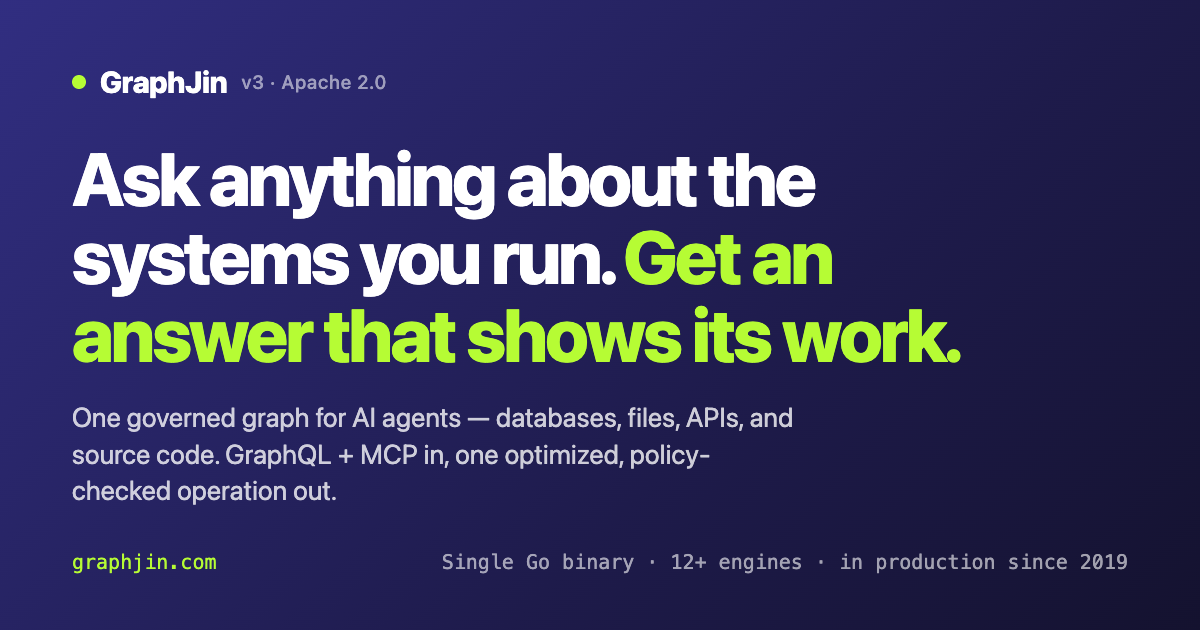
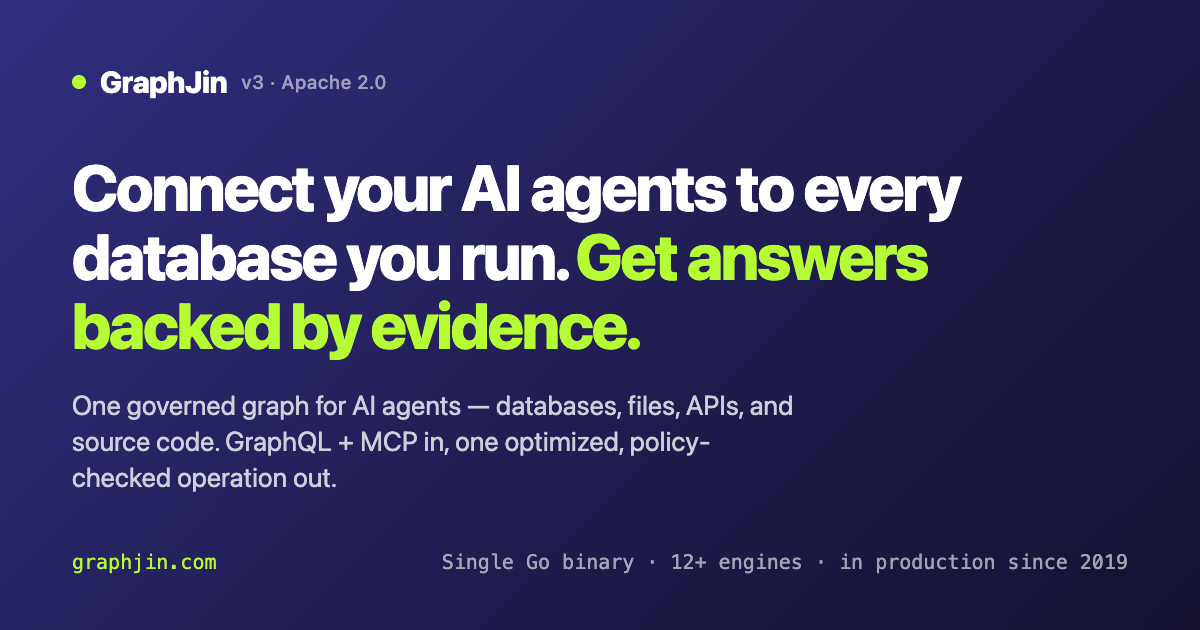
website: saas-ops homepage — rotating hero demo, new hook, docs sweep [skip-release]
- Hook: "Connect your AI agents to every database you run. Get answers
  backed by evidence." — names the audience's actual problem (agents ×
  databases); og card regenerated, checker sentinel updated
- Hero window speaks the built-in SaaS ops demo and rotates three
  seed-true questions (churn risk / SLA breaches / MRR) every 7s,
  replaying the entrance stagger; reduced-motion and hidden tabs stay
  static (first gated JS animation on the site)
- Demo card, zero-Docker CTA (#saas-ops), home-paths, quickstart note,
  and the start/install/server-agent/test-backed docs all speak SaaS ops

Changed region(s): [[0.0617, 0.2413, 0.8017, 0.573], [0.0617, 0.6333, 0.6783, 0.8143]]

diff --git a/graphjin/website/static/js/site.js b/graphjin/website/static/js/site.js
@@ -1006,3 +1006,56 @@ if (infiniteMain && firstDocArticle && infiniteMain.dataset.nextUrl) {
 
   armNextSentinel();
 }
+
+// Homepage hero: rotate the demo Q/A pairs (static markup is pair one).
+const heroRotateWindow = document.querySelector('.ai-window-hero');
+const heroRotateData = document.getElementById('hero-rotate-data');
+if (
+  heroRotateWindow &&
+  heroRotateData &&
+  window.matchMedia('(prefers-reduced-motion: no-preference)').matches
+) {
+  let heroPairs = [];
+  try {
+    heroPairs = JSON.parse(heroRotateData.textContent || '[]');
+  } catch {
+    heroPairs = [];
+  }
+  const heroUser = heroRotateWindow.querySelector('.chat-user');
+  const heroTools = heroRotateWindow.querySelectorAll('.tool-call');
+  const heroDone = heroRotateWindow.querySelector('.done-line .done-text');
+  const heroAnswer = heroRotateWindow.querySelector('.assistant-copy');
+  if (
+    Array.isArray(heroPairs) &&
+    heroPairs.length > 1 &&
+    heroUser &&
+    heroDone &&
+    heroAnswer &&
+    heroTools.length === 2
+  ) {
+    const heroAnimated = [
+      heroUser,
+      ...heroTools,
+      heroDone.parentElement,
+      heroAnswer,
+    ];
+    let heroIndex = 0;
+    window.setInterval(() => {
+      if (document.hidden) return;
+      heroIndex = (heroIndex + 1) % heroPairs.length;
+      const pair = heroPairs[heroIndex];
+      heroUser.textContent = pair.user;
+      pair.tools.forEach((tool, i) => {
+        heroTools[i].querySelector('.tool-call-header span:last-child').textContent = tool.name;
+        heroTools[i].querySelector('code').textContent = tool.line;
+      });
+      heroDone.textContent = ' ' + pair.done;
+      heroAnswer.textContent = pair.answer;
+      for (const el of heroAnimated) {
+        el.style.animation = 'none';
+        void el.offsetWidth; // commit the reset so the stagger replays
+        el.style.animation = '';
+      }
+    }, 7000);
+  }
+}

diff --git a/graphjin/website/scripts/og-card.html b/graphjin/website/scripts/og-card.html
@@ -39,9 +39,9 @@
     letter-spacing: 0.04em;
   }
   h1 {
-    max-width: 20ch;
-    font-size: 74px;
-    line-height: 1.05;
+    max-width: 30ch;
+    font-size: 64px;
+    line-height: 1.08;
     letter-spacing: -0.035em;
     font-weight: 800;
   }
@@ -67,7 +67,7 @@
 <body>
   <div class="brand"><span class="dot"></span>GraphJin <small>v3 · Apache 2.0</small></div>
   <div>
-    <h1>Ask anything about the systems you run. <span class="accent">Get an answer that shows its work.</span></h1>
+    <h1>Connect your AI agents to every database you run. <span class="accent">Get answers backed by evidence.</span></h1>
     <p class="sub">One governed graph for AI agents — databases, files, APIs, and source code. GraphQL + MCP in, one optimized, policy-checked operation out.</p>
   </div>
   <div class="foot"><span class="site">graphjin.com</span><span>Single Go binary · 12+ engines · in production since 2019</span></div>

diff --git a/graphjin/website/content/_index.md b/graphjin/website/content/_index.md
@@ -3,7 +3,7 @@ title: "GraphJin"
 description: "GraphJin gives AI agents one governed graph across your databases, files, APIs, and source code — GraphQL and MCP in, one optimized, policy-checked operation out."
 ---
 
-<section class="home-hero"><div class="home-hero-copy"><p class="home-section-label">v3 · Apache 2.0</p><h1>Ask anything about the systems you run. <span class="h1-accent">Get an answer that shows its work.</span></h1><p class="home-lede">Most teams hand-wire a brittle tool for every question an agent might ask. GraphJin auto-learns your databases, files, APIs, and source code into one governed graph — and ships the agent that works it.</p><p class="home-sublede">Under the hood: a compiler, not a framework. Agents ask in a small graph query language models get right on the first try — each request compiles into one optimized, policy-checked operation. Bring Claude or Codex over MCP, or use the <a href="#agent">built-in agent</a>.</p><div class="home-actions"><a class="button-primary" href="#quickstart">Run the 2-minute demo</a><a class="button-secondary" href="#ai-queries">Watch an agent answer</a><div class="hero-cmd" data-code-block><pre><code>graphjin serve --demo</code></pre><button class="copy-code-button" type="button" data-copy-code>Copy</button></div></div><p class="home-trust">Single Go binary · 12+ engines · Apache 2.0 · in production since 2019</p></div><div class="home-hero-demo"><div class="ai-window ai-window-hero"><div class="window-chrome"><span></span><span></span><span></span><i aria-hidden="true">✣</i><strong>GraphJin Agent · localhost:8083/agent</strong></div><div class="ai-conversation"><div class="chat-user">Who should get the next open cardiology slot?</div><div class="assistant-row"><div class="assistant-avatar" aria-hidden="true">✣</div><div class="chat-assistant"><div class="tool-call"><div class="tool-call-header"><span class="tool-caret" aria-hidden="true">⌄</span><span>query_catalog</span></div><code>discover -> providers · appointments · waitlist</code></div><div class="tool-call"><div class="tool-call-header"><span class="tool-caret" aria-hidden="true">⌄</span><span>execute_graphql</span></div><code>1 optimized query · waitlist by priority</code></div><p class="done-line"><span aria-hidden="true">✓</span> Evidence checked · 2 reads · 1 execution</p><p class="assistant-copy">Rosa Alvarez — high priority, waiting 4 days for Dr. Alice Chen's next opening.</p></div></div></div></div></div><div class="home-hero-diffs" aria-label="What makes GraphJin different"><article><h3><a href="#proof">Answers it can't fake</a></h3><p>A ledger in Go records what actually ran. Unbacked claims flip <code>answered</code> to <code>blocked</code> — the fake answer never leaves the server.</p></article><article><h3><a href="#how">One optimized operation</a></h3><p>No glue code, no N+1. Policy is compiled into the query itself, not bolted on around it.</p></article><article><h3><a href="#security-model">Your permissions, never your keys</a></h3><p>The agent runs as the caller. RBAC and row-level security apply to every request it makes.</p></article></div></section>
+<section class="home-hero"><div class="home-hero-copy"><p class="home-section-label">v3 · Apache 2.0</p><h1>Connect your AI agents to every database you run. <span class="h1-accent">Get answers backed by evidence.</span></h1><p class="home-lede">Most teams hand-wire a brittle tool for every question an agent might ask. GraphJin auto-learns your databases, files, APIs, and source code into one governed graph — and ships the agent that works it.</p><p class="home-sublede">Under the hood: a compiler, not a framework. Agents ask in a small graph query language models get right on the first try — each request compiles into one optimized, policy-checked operation. Bring Claude or Codex over MCP, or use the <a href="#agent">built-in agent</a>.</p><div class="home-actions"><a class="button-primary" href="#quickstart">Run the 2-minute demo</a><a class="button-secondary" href="#ai-queries">Watch an agent answer</a><div class="hero-cmd" data-code-block><pre><code>graphjin serve --demo</code></pre><button class="copy-code-button" type="button" data-copy-code>Copy</button></div></div><p class="home-trust">Single Go binary · 12+ engines · Apache 2.0 · in production since 2019</p></div><div class="home-hero-demo"><div class="ai-window ai-window-hero"><div class="window-chrome"><span></span><span></span><span></span><i aria-hidden="true">✣</i><strong>GraphJin Agent · localhost:8083/agent</strong></div><div class="ai-conversation"><div class="chat-user">Which account is most at risk of churning?</div><div class="assistant-row"><div class="assistant-avatar" aria-hidden="true">✣</div><div class="chat-assistant"><div class="tool-call"><div class="tool-call-header"><span class="tool-caret" aria-hidden="true">⌄</span><span>query_catalog</span></div><code>discover -> accounts · invoices · usage_events</code></div><div class="tool-call"><div class="tool-call-header"><span class="tool-caret" aria-hidden="true">⌄</span><span>execute_graphql</span></div><code>1 optimized query · churn signals by account</code></div><p class="done-line"><span aria-hidden="true">✓</span><span class="done-text"> Evidence checked · 2 reads · 1 execution</span></p><p class="assistant-copy">Meridian Robotics — renewal in 9 days, 2 failed payments, usage down sharply.</p></div></div></div></div><script type="application/json" id="hero-rotate-data">[{"user":"Which account is most at risk of churning?","tools":[{"name":"query_catalog","line":"discover -> accounts · invoices · usage_events"},{"name":"execute_graphql","line":"1 optimized query · churn signals by account"}],"done":"Evidence checked · 2 reads · 1 execution","answer":"Meridian Robotics — renewal in 9 days, 2 failed payments, usage down sharply."},{"user":"Any support tickets about to breach SLA?","tools":[{"name":"query_catalog","line":"discover -> support_tickets · accounts · users"},{"name":"execute_graphql","line":"1 optimized query · open tickets by sla_due_at"}],"done":"Evidence checked · 2 reads · 1 execution","answer":"Meridian Robotics' urgent ticket is past SLA — one more is due by 17:00 today."},{"user":"Where is our MRR concentrated?","tools":[{"name":"query_catalog","line":"discover -> subscriptions · accounts · invoices"},{"name":"execute_graphql","line":"1 optimized query · MRR rollup by plan"}],"done":"Evidence checked · 2 reads · 1 execution","answer":"$19,800 MRR, 81% enterprise — two past-due accounts put $5,200 at risk."}]</script></div><div class="home-hero-diffs" aria-label="What makes GraphJin different"><article><h3><a href="#proof">Answers it can't fake</a></h3><p>A ledger in Go records what actually ran. Unbacked claims flip <code>answered</code> to <code>blocked</code> — the fake answer never leaves the server.</p></article><article><h3><a href="#how">One optimized operation</a></h3><p>No glue code, no N+1. Policy is compiled into the query itself, not bolted on around it.</p></article><article><h3><a href="#security-model">Your permissions, never your keys</a></h3><p>The agent runs as the caller. RBAC and row-level security apply to every request it makes.</p></article></div></section>
 
 <section id="ai-queries" class="home-section ai-query-section"><div class="home-section-heading centered"><p class="home-section-label">See it work</p><h2>Ask in plain English. Get real data back.</h2><p>The hero window is the short version — here is the full loop, tool call by tool call. Claude Desktop, Codex, or any MCP client talks to GraphJin: the agent discovers the shape, validates its query, and GraphJin compiles it into one optimized database query — then answers with rows it can reason over.</p></div><div class="ai-stage"><div class="ai-window"><div class="window-chrome"><span></span><span></span><span></span><i aria-hidden="true">✣</i><strong>Claude Desktop</strong></div><div class="ai-conversation"><div class="chat-user">who's the top customer?</div><div class="assistant-row"><div class="assistant-avatar" aria-hidden="true">✣</div><div class="chat-assistant"><div class="tool-call"><div class="tool-call-header"><span class="tool-caret" aria-hidden="true">⌄</span><span>query_catalog</span></div><code>discover -> customers · purchases · products  (2 relationships)</code></div><div class="tool-call"><div class="tool-call-header"><span class="tool-caret" aria-hidden="true">⌄</span><span>validate_where_clause</span></div><code>validate -> filters ok on customers, purchases · order_by total_spent</code></div><div class="tool-call"><div class="tool-call-header"><span class="tool-caret" aria-hidden="true">⌄</span><span>execute_graphql</span></div><code>{ customers { id full_name email purchases { quantity product { price } } } }</code></div><details class="gen-sql"><summary><span aria-hidden="true">SQL</span> one optimized query, no N+1, no resolvers</summary>{{< hl sql >}}SELECT json_agg(__sj.json) AS customers
 FROM customers AS c
@@ -80,7 +80,7 @@ curl -sS localhost:8080/api/v1/agent \
 {{< /code-card >}}
 <p class="code-note"><strong>Captured live.</strong> The actual response from this run — trimmed, not retouched. The refusal is machine-actionable: it names the exact unblock step, so a calling agent corrects course and retries instead of guessing.</p></div></div><div class="badge-row"><span>Ledger written by Go, not the model</span><span>Model history is untrusted</span><span>Deterministic post-run check</span><span>Runs as the caller — RLS still applies</span></div><p class="home-section-note"><strong>The smoke suite jailbreak-tests this in every demo vertical.</strong> A model told to skip discovery and mutate anyway gets <code>status: "blocked"</code> and a machine-actionable refusal with unblock steps — asserted end-to-end on every smoke run. Watch the loop live: every demo streams each tool call — green dot or red — at <code>localhost:8080/agent</code>.</p><div class="home-actions"><a class="button-primary" href="/agentic/server-agent/">How the guards work</a><a class="button-secondary" href="#demos">Try it on a demo</a></div></section>
 
-<section id="demos" class="home-section"><div class="home-section-heading"><p class="home-section-label">Demo verticals</p><h2>Five demos. Real domains. One command each.</h2><p>Not toy schemas — each demo boots a full vertical: schema, seeded operational data, saved queries, workflows, and the agent wired in. Seeds anchor to today, so the data never goes stale. Delete the <code>demo/</code> folder to reset. Pick a domain and start interrogating it.</p></div><div class="badge-row"><span>5 verticals</span><span>6 database engines</span><span>CodeSQL + files + OpenAPI sources</span><span>12 workflows · 12 saved queries</span></div><div class="demo-grid"><article class="home-card demo-card"><div class="demo-meta"><span class="demo-port">:8080</span><span class="demo-stack">Postgres · BigQuery-emu · CodeSQL</span></div><h3>Coffee roastery</h3><p>Roast schedules, cupping scores, sensor telemetry, production orders — the flagship agentic demo.</p><p class="demo-question">"Which roast batch should be held for quality — and why?"</p><code class="demo-cmd">graphjin serve --demo --path examples/coffee-roastery</code></article><article class="home-card demo-card"><div class="demo-meta"><span class="demo-port">:8083</span><span class="demo-stack">SQLite — zero Docker</span></div><h3>Clinic scheduler</h3><p>Appointments, waitlists, no-shows — built into the binary; boots in seconds, no clone, no containers.</p><p class="demo-question">"Who should get the next open cardiology slot?"</p><code class="demo-cmd">graphjin serve --demo</code></article><article class="home-card demo-card"><div class="demo-meta"><span class="demo-port">:8081</span><span class="demo-stack">MySQL · BigQuery-emu · JWT roles</span></div><h3>Corrugated plant</h3><p>Work orders, corrugator runs, downtime, quality holds — behind real role-gated auth.</p><p class="demo-question">"Which work orders should the corrugator run first?"</p><code class="demo-cmd">graphjin serve --demo --path examples/corrugated-plant</code></article><article class="home-card demo-card"><div class="demo-meta"><span class="demo-port">:8082</span><span class="demo-stack">8 sources — Mongo · files · OpenAPI</span></div><h3>PCB fab</h3><p>Fab orders, yield analytics, test measurements, Gerber files, a live supplier API — one graph.</p><p class="demo-question">"Which fab order should we release next — and what's the evidence?"</p><code class="demo-cmd">graphjin serve --demo --path examples/pcb-fab</code></article></div><p class="demo-classic">Just want the classic GraphQL starter? <strong>webshop</strong> — single Postgres, RBAC, a Stripe-style remote join, recursive comments. <code>graphjin serve --demo --path examples/webshop</code></p><div class="home-actions"><a class="button-primary" href="/start/demos/">Explore all five demos</a><a class="button-secondary" href="/start/demos/#clinic-scheduler">Zero Docker? Start with the clinic</a></div></section>
+<section id="demos" class="home-section"><div class="home-section-heading"><p class="home-section-label">Demo verticals</p><h2>Five demos. Real domains. One command each.</h2><p>Not toy schemas — each demo boots a full vertical: schema, seeded operational data, saved queries, workflows, and the agent wired in. Seeds anchor to today, so the data never goes stale. Delete the <code>demo/</code> folder to reset. Pick a domain and start interrogating it.</p></div><div class="badge-row"><span>5 verticals</span><span>6 database engines</span><span>CodeSQL + files + OpenAPI sources</span><span>12 workflows · 12 saved queries</span></div><div class="demo-grid"><article class="home-card demo-card"><div class="demo-meta"><span class="demo-port">:8080</span><span class="demo-stack">Postgres · BigQuery-emu · CodeSQL</span></div><h3>Coffee roastery</h3><p>Roast schedules, cupping scores, sensor telemetry, production orders — the flagship agentic demo.</p><p class="demo-question">"Which roast batch should be held for quality — and why?"</p><code class="demo-cmd">graphjin serve --demo --path examples/coffee-roastery</code></article><article class="home-card demo-card"><div class="demo-meta"><span class="demo-port">:8083</span><span class="demo-stack">SQLite — zero Docker</span></div><h3>SaaS ops</h3><p>Accounts, subscriptions, invoices, support tickets — built into the binary; boots in seconds, no clone, no containers.</p><p class="demo-question">"Which account is most at risk of churning?"</p><code class="demo-cmd">graphjin serve --demo</code></article><article class="home-card demo-card"><div class="demo-meta"><span class="demo-port">:8081</span><span class="demo-stack">MySQL · BigQuery-emu · JWT roles</span></div><h3>Corrugated plant</h3><p>Work orders, corrugator runs, downtime, quality holds — behind real role-gated auth.</p><p class="demo-question">"Which work orders should the corrugator run first?"</p><code class="demo-cmd">graphjin serve --demo --path examples/corrugated-plant</code></article><article class="home-card demo-card"><div class="demo-meta"><span class="demo-port">:8082</span><span class="demo-stack">8 sources — Mongo · files · OpenAPI</span></div><h3>PCB fab</h3><p>Fab orders, yield analytics, test measurements, Gerber files, a live supplier API — one graph.</p><p class="demo-question">"Which fab order should we release next — and what's the evidence?"</p><code class="demo-cmd">graphjin serve --demo --path examples/pcb-fab</code></article></div><p class="demo-classic">Just want the classic GraphQL starter? <strong>webshop</strong> — single Postgres, RBAC, a Stripe-style remote join, recursive comments. <code>graphjin serve --demo --path examples/webshop</code></p><div class="home-actions"><a class="button-primary" href="/start/demos/">Explore all five demos</a><a class="button-secondary" href="/start/demos/#saas-ops">Zero Docker? Start with SaaS ops</a></div></section>
 
 <section id="databases" class="home-section database-section"><div class="database-copy"><p class="home-section-label">Databases</p><h2>Works with all your databases.<br>And more.</h2><p>Point GraphJin at <strong>as many systems as you need</strong> — Postgres for users, MySQL for orders, Snowflake, Redshift, and BigQuery for analytics, Cassandra or Keyspaces for CQL workloads, MongoDB for events, HTTP APIs for remote services, object storage for files, and CodeSQL for source trees — and query them through a single GraphQL endpoint. Joins, remote joins, subscriptions, search, and mutations compose <strong>across systems in one request</strong>, so an AI assistant can reason across the data, APIs, files, and code without learning every backend.</p></div>
 
@@ -149,6 +149,6 @@ claude mcp add --transport http graphjin https://graphjin.example.com/api/v1/mcp
 
 <section id="capabilities" class="home-section"><div class="home-section-heading"><p class="home-section-label">In the box</p><h2>A full backend, not just an agent gateway.</h2><p>The same binary and config that govern the AI surface also run your realtime, files, remote APIs, auth, and federation — no extra services to operate.</p></div><div class="stats-grid"><article><strong>1</strong><span>Auditable config for agent access across the AI surface.</span></article><article><strong>12+</strong><span>Database and warehouse engines through one GraphQL surface.</span></article><article><strong>0</strong><span>Lines of resolver code. The compiler does the work.</span></article></div><div class="home-card-grid feature-grid-large"><article class="home-card"><div class="home-card-icon">FS</div><h3>Files as tables</h3><p>Uploads stream to local disk, S3, R2, or GCS; each bucket is a queryable table you can join with the rest of your schema.</p></article><article class="home-card"><div class="home-card-icon">API</div><h3>Remote APIs</h3><p>Drop in an OpenAPI 3 spec and its operations become joinable, RBAC-aware fields with per-spec auth caching.</p></article><article class="home-card"><div class="home-card-icon">RT</div><h3>Realtime</h3><p>Subscribe with the same GraphQL; cursor-based SSE and WebSocket streams resume after a drop, with polls batched into one statement.</p></article><article class="home-card"><div class="home-card-icon">JWT</div><h3>Authentication</h3><p>JWT and OIDC from Auth0, Firebase, Okta, or any JWKS — one auth pipeline across HTTP, WebSocket, SSE, and MCP.</p></article><article class="home-card"><div class="home-card-icon">WF</div><h3>Workflows</h3><p>Discover approved workflows and run them through GraphQL, REST, MCP, or the CLI.</p></article><article class="home-card"><div class="home-card-icon">RDS</div><h3>Caching</h3><p>Response caching on Redis with an in-memory fallback and stale-while-revalidate.</p></article><article class="home-card"><div class="home-card-icon">CLI</div><h3>One binary CLI</h3><p>Dev server, database toolchain, device-code login, and MCP wiring. What runs in CI matches production.</p></article><article class="home-card"><div class="home-card-icon">FED</div><h3>Federation</h3><p>Advanced: flip a flag and every keyed table becomes an Apollo Federation v2 subgraph.</p></article></div></section>
 
-<nav class="home-paths" aria-label="Choose your path"><a href="/start/install/"><strong>Install</strong><span>Run GraphJin locally and scaffold a project.</span></a><a href="/start/demos/"><strong>Demos</strong><span>Five runnable verticals — coffee, clinic, corrugated, PCB fab, webshop — one command each.</span></a><a href="/story/vision/"><strong>Vision</strong><span>Why GraphJin treats data, APIs, files, code, workflows, and policy as one governed graph.</span></a><a href="/core/query-language/"><strong>Query language</strong><span>Filters, geo filters, relationships, cursors, Expression aggregates.</span></a><a href="/agentic/mcp/"><strong>MCP for agents</strong><span>Catalog-first discovery, validation, execution, and policy checks.</span></a><a href="/agentic/server-agent/"><strong>Built-in agent</strong><span>One instruction in, a typed evidence-backed answer out.</span></a><a href="/configure/sources-mode/"><strong>Sources mode</strong><span>Databases, filesystems, code, remote APIs, and capabilities.</span></a><a href="/reference/test-backed-examples/"><strong>Examples</strong><span>Feature map tied back to the Go example tests.</span></a><a href="/reference/config-reference/"><strong>Config reference</strong><span>Production, auth, caching, uploads, federation, OpenAPI.</span></a></nav>
+<nav class="home-paths" aria-label="Choose your path"><a href="/start/install/"><strong>Install</strong><span>Run GraphJin locally and scaffold a project.</span></a><a href="/start/demos/"><strong>Demos</strong><span>Five runnable verticals — coffee, SaaS ops, corrugated, PCB fab, webshop — one command each.</span></a><a href="/story/vision/"><strong>Vision</strong><span>Why GraphJin treats data, APIs, files, code, workflows, and policy as one governed graph.</span></a><a href="/core/query-language/"><strong>Query language</strong><span>Filters, geo filters, relationships, cursors, Expression aggregates.</span></a><a href="/agentic/mcp/"><strong>MCP for agents</strong><span>Catalog-first discovery, validation, execution, and policy checks.</span></a><a href="/agentic/server-agent/"><strong>Built-in agent</strong><span>One instruction in, a typed evidence-backed answer out.</span></a><a href="/configure/sources-mode/"><strong>Sources mode</strong><span>Databases, filesystems, code, remote APIs, and capabilities.</span></a><a href="/reference/test-backed-examples/"><strong>Examples</strong><span>Feature map tied back to the Go example tests.</span></a><a href="/reference/config-reference/"><strong>Config reference</strong><span>Production, auth, caching, uploads, federation, OpenAPI.</span></a></nav>
 
-<section id="quickstart" class="home-section"><div class="home-section-heading"><p class="home-section-label">Get started</p><h2>Run it in two minutes.</h2><p>Three commands: install, boot a real demo, connect your agent.</p></div><div class="start-steps"><div class="start-step"><div class="start-num">1</div><div class="start-step-body"><h3>Install the binary</h3><div class="hero-cmd" data-code-block><pre><code>curl -fsSL https://graphjin.com/install.sh | bash</code></pre><button class="copy-code-button" type="button" data-copy-code>Copy</button></div><p class="start-note">Or <code>brew install dosco/graphjin/graphjin</code></p></div></div><div class="start-step"><div class="start-num">2</div><div class="start-step-body"><h3>Boot the built-in demo</h3><div class="hero-cmd" data-code-block><pre><code>graphjin serve --demo</code></pre><button class="copy-code-button" type="button" data-copy-code>Copy</button></div><p class="start-note">The binary ships with the clinic-scheduler demo — SQLite, no Docker, extracted to <code>./graphjin-demo</code> with seeded data, saved queries, and workflows. Add a model key to <code>./.env</code> (<code>OPENAI_API_KEY</code>, <code>ANTHROPIC_API_KEY</code>, or <code>GOOGLE_APIKEY</code>) and the built-in agent switches on; the flagship vertical is <code>--path examples/coffee-roastery</code> from a clone.</p></div></div><div class="start-step"><div class="start-num">3</div><div class="start-step-body"><h3>Connect your AI client</h3><div class="hero-cmd" data-code-block><pre><code>graphjin mcp add claude</code></pre><button class="copy-code-button" type="button" data-copy-code>Copy</button></div><p class="start-note">Using Codex? <code>graphjin mcp add codex</code></p></div></div></div><p class="start-done"><span aria-hidden="true">✓</span> That's it. Open the web console at <code>localhost:8083</code> — chat with the built-in agent at <code>localhost:8083/agent</code>, or ask from your MCP client. Real schema, real rows, evidence-backed answers.</p><div class="home-actions"><a class="button-primary" href="/start/quick-start/">Read the quick start</a><a class="button-secondary" href="/start/demos/">Browse the demos</a></div></section>
+<section id="quickstart" class="home-section"><div class="home-section-heading"><p class="home-section-label">Get started</p><h2>Run it in two minutes.</h2><p>Three commands: install, boot a real demo, connect your agent.</p></div><div class="start-steps"><div class="start-step"><div class="start-num">1</div><div class="start-step-body"><h3>Install the binary</h3><div class="hero-cmd" data-code-block><pre><code>curl -fsSL https://graphjin.com/install.sh | bash</code></pre><button class="copy-code-button" type="button" data-copy-code>Copy</button></div><p class="start-note">Or <code>brew install dosco/graphjin/graphjin</code></p></div></div><div class="start-step"><div class="start-num">2</div><div class="start-step-body"><h3>Boot the built-in demo</h3><div class="hero-cmd" data-code-block><pre><code>graphjin serve --demo</code></pre><button class="copy-code-button" type="button" data-copy-code>Copy</button></div><p class="start-note">The binary ships with the SaaS ops demo — SQLite, no Docker, extracted to <code>./graphjin-demo</code> with seeded data, saved queries, and workflows. Add a model key to <code>./.env</code> (<code>OPENAI_API_KEY</code>, <code>ANTHROPIC_API_KEY</code>, or <code>GOOGLE_APIKEY</code>) and the built-in agent switches on; the flagship vertical is <code>--path examples/coffee-roastery</code> from a clone.</p></div></div><div class="start-step"><div class="start-num">3</div><div class="start-step-body"><h3>Connect your AI client</h3><div class="hero-cmd" data-code-block><pre><code>graphjin mcp add claude</code></pre><button class="copy-code-button" type="button" data-copy-code>Copy</button></div><p class="start-note">Using Codex? <code>graphjin mcp add codex</code></p></div></div></div><p class="start-done"><span aria-hidden="true">✓</span> That's it. Open the web console at <code>localhost:8083</code> — chat with the built-in agent at <code>localhost:8083/agent</code>, or ask from your MCP client. Real schema, real rows, evidence-backed answers.</p><div class="home-actions"><a class="button-primary" href="/start/quick-start/">Read the quick start</a><a class="button-secondary" href="/start/demos/">Browse the demos</a></div></section>

diff --git a/graphjin/website/content/start/demos.md b/graphjin/website/content/start/demos.md
@@ -6,7 +6,7 @@ doc_kind: "guide"
 weight: 25
 ---
 
-The fastest start needs nothing but the binary: `graphjin serve --demo` with no `--path` extracts the built-in clinic-scheduler demo to `./graphjin-demo` and boots it on SQLite - no clone, no Docker, ready in seconds.
+The fastest start needs nothing but the binary: `graphjin serve --demo` with no `--path` extracts the built-in SaaS ops demo to `./graphjin-demo` and boots it on SQLite - no clone, no Docker, ready in seconds.
 
 ```bash
 graphjin serve --demo
@@ -28,12 +28,12 @@ Put a model API key in `./.env` (`GOOGLE_APIKEY`, `OPENAI_API_KEY`, or `ANTHROPI
 | Demo | Domain | Sources | Port | Docker | First boot |
 | --- | --- | --- | --- | --- | --- |
 | [Coffee roastery](#coffee-roastery) | Specialty coffee ops | Postgres · BigQuery-emu · TS CodeSQL | 8080 | Yes | ~1-2 min |
-| [Clinic scheduler](#clinic-scheduler) | Clinic scheduling | SQLite | 8083 | **No** | Seconds |
+| [SaaS ops](#saas-ops) | SaaS company ops | SQLite | 8083 | **No** | Seconds |
 | [Corrugated plant](#corrugated-plant) | Box manufacturing | MySQL · BigQuery-emu · Python CodeSQL | 8081 | Yes | ~2-4 min |
 | [PCB fab](#pcb-fab) | PCB design + fabrication | 8 sources incl. MongoDB, files, OpenAPI | 8082 | Yes | ~3-5 min |
 | [Webshop](#webshop) | E-commerce starter | Postgres | 8080 | Yes | ~1 min |
 
-No Docker on your machine? Start with the clinic scheduler - it runs entirely in-process on SQLite.
+No Docker on your machine? Start with the SaaS ops demo - it runs entirely in-process on SQLite.
 
 ## Coffee roastery {#coffee-roastery}
 
@@ -54,25 +54,25 @@ graphjin serve --demo --path examples/coffee-roastery
 
 More prompts: [coffee-roastery/PROMPTS.md](https://github.com/dosco/graphjin/blob/master/examples/coffee-roastery/PROMPTS.md)
 
-## Clinic scheduler {#clinic-scheduler}
+## SaaS ops {#saas-ops}
 
-The fastest start, and the demo built into the binary: a clinic scheduling app - patients, providers, rooms, appointments, waitlists - on SQLite, entirely in-process. No Docker, no containers, boots in seconds. Bare `graphjin serve --demo` (no `--path`) runs exactly this demo, extracted to `./graphjin-demo`; from a repo clone you can also run it explicitly:
+The fastest start, and the demo built into the binary: a SaaS company ops app - accounts, users, subscriptions, invoices, support tickets, usage events - on SQLite, entirely in-process. No Docker, no containers, boots in seconds. Bare `graphjin serve --demo` (no `--path`) runs exactly this demo, extracted to `./graphjin-demo`; from a repo clone you can also run it explicitly:
 
 ```bash
 graphjin serve --demo                             # built-in, no clone needed
-graphjin serve --demo --path examples/clinic-scheduler   # from a repo clone
+graphjin serve --demo --path examples/saas-ops    # from a repo clone
 ```
 
 - **Sources:** `app` (SQLite), workflows, control plane. Port 8083.
-- **Shows off:** zero-dependency onboarding, saved queries (`daily_schedule_context`, `waitlist_context`, `utilization_context`), workflows (`overbook_check`, `waitlist_promotion`), and the fail-closed MCP sampling `require` mode.
+- **Shows off:** zero-dependency onboarding, saved queries (`churn_risk_context`, `mrr_summary_context`, `ticket_sla_context`), workflows (`sla_breach_check`, `dunning_retry_check`), and the fail-closed MCP sampling `require` mode.
 
 **Ask it:**
 
-- "Who should get the next open cardiology slot? Use the waitlist and explain the priority order."
-- "Summarize today's scheduled appointments by provider and room, and flag any room at risk of overbooking."
-- "Review recent no-show events and suggest which patients need outreach."
+- "Which accounts are most at risk of churning? Use failed payments, renewal dates, and recent usage, and explain the ranking."
+- "Summarize MRR by plan and flag any account with failed payments."
+- "Which open support tickets are past or nearest their SLA - and who owns them?"
 
-More prompts: [clinic-scheduler/PROMPTS.md](https://github.com/dosco/graphjin/blob/master/examples/clinic-scheduler/PROMPTS.md)
+More prompts: [saas-ops/PROMPTS.md](https://github.com/dosco/graphjin/blob/master/examples/saas-ops/PROMPTS.md)
 
 ## Corrugated plant {#corrugated-plant}
 

diff --git a/graphjin/website/content/start/install.md b/graphjin/website/content/start/install.md
@@ -25,7 +25,7 @@ brew install dosco/graphjin/graphjin
 go install github.com/dosco/graphjin/cmd/graphjin@latest
 ```
 
-`graphjin serve --demo` is the fastest smoke test - with no `--path` it extracts the built-in clinic-scheduler demo (SQLite, no Docker) to `./graphjin-demo` and boots it: schema, seeded data, saved queries, workflows, and (with a model key in `./.env`) the built-in agent. The other [demo verticals](/start/demos/) run from a repo clone via `--path examples/<name>`.
+`graphjin serve --demo` is the fastest smoke test - with no `--path` it extracts the built-in SaaS ops demo (SQLite, no Docker) to `./graphjin-demo` and boots it: schema, seeded data, saved queries, workflows, and (with a model key in `./.env`) the built-in agent. The other [demo verticals](/start/demos/) run from a repo clone via `--path examples/<name>`.
 
 ## Scaffold a project
 

diff --git a/graphjin/website/content/reference/test-backed-examples.md b/graphjin/website/content/reference/test-backed-examples.md
@@ -8,7 +8,7 @@ weight: 50
 
 Source note: this page is curated from `tests/*_test.go`, `core/**/*_test.go`, `serv/**/*_test.go`, `mongodriver/**/*_test.go`, and the MCP syntax tests.
 
-Beyond unit-level examples, the repo ships four runnable demo verticals (coffee-roastery, corrugated-plant, pcb-fab, clinic-scheduler) with end-to-end smoke suites covering data, workflows, watches, artifacts, structured refusals, roles, and MCP sampling — see `examples/README.md` (`make smoke-all`).
+Beyond unit-level examples, the repo ships four runnable demo verticals (coffee-roastery, corrugated-plant, pcb-fab, saas-ops) with end-to-end smoke suites covering data, workflows, watches, artifacts, structured refusals, roles, and MCP sampling — see `examples/README.md` (`make smoke-all`).
 
 ## Query examples
 

diff --git a/graphjin/website/content/agentic/server-agent.md b/graphjin/website/content/agentic/server-agent.md
@@ -30,7 +30,7 @@ curl -sS localhost:8080/api/v1/agent \
 
 The answer comes back as typed JSON - `status`, `answer`, `data`, `evidence`, `actions`, `next` - grounded in the discovery the agent actually performed on this run. The same conversation is available as a chat page in the built-in web console at `localhost:8080/agent`, streaming one action event per tool call as the agent works.
 
-More verticals - a zero-Docker clinic scheduler, a corrugated-box plant with JWT roles, a PCB fab spanning eight sources - are on the [demos page](/start/demos/).
+More verticals - a zero-Docker SaaS ops demo, a corrugated-box plant with JWT roles, a PCB fab spanning eight sources - are on the [demos page](/start/demos/).
 
 ## Enable it
 
